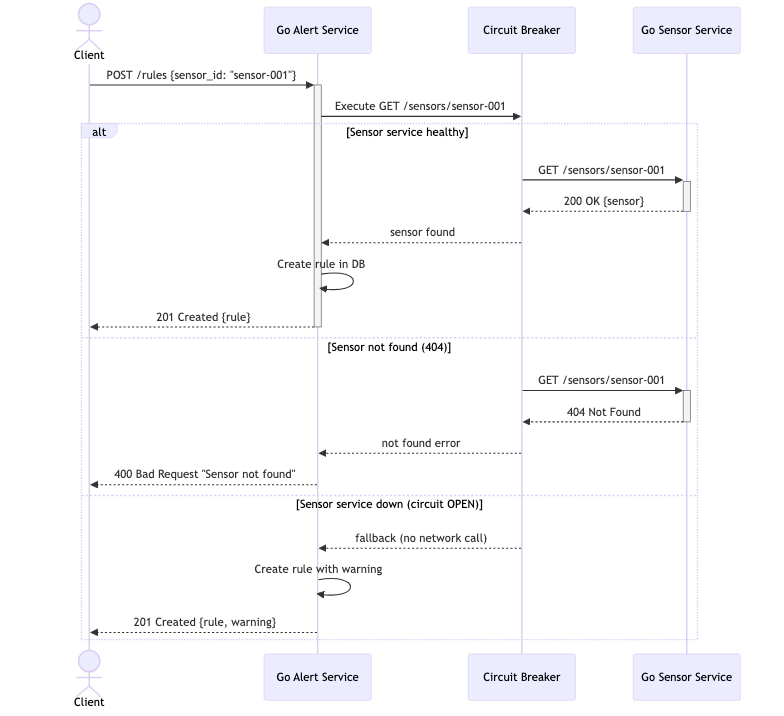
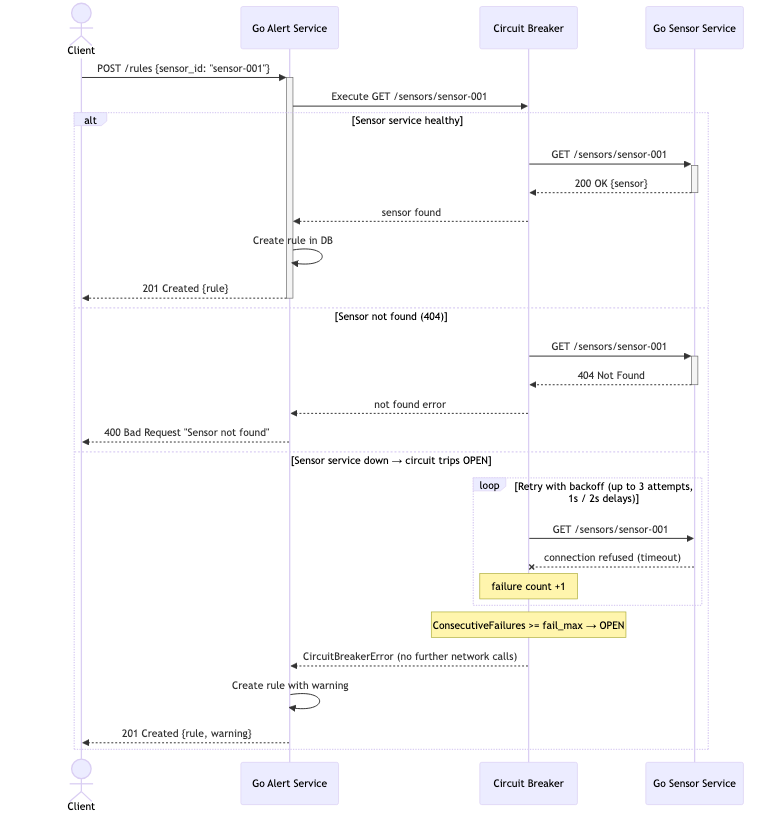
Update circuit breaker diagram to show retry loop before OPEN state

diff --git a/README.md b/README.md
@@ -107,23 +107,29 @@ sequenceDiagram
     participant GoSvc as Go Sensor Service
 
     Client->>+GoAlert: POST /rules {sensor_id: "sensor-001"}
+    GoAlert->>CB: Execute GET /sensors/sensor-001
 
-    GoAlert->>+CB: Execute GET /sensors/sensor-001
     alt Sensor service healthy
         CB->>+GoSvc: GET /sensors/sensor-001
         GoSvc-->>-CB: 200 OK {sensor}
-        CB-->>-GoAlert: sensor found
+        CB-->>GoAlert: sensor found
         GoAlert->>GoAlert: Create rule in DB
-        GoAlert-->>Client: 201 Created {rule}
+        GoAlert-->>-Client: 201 Created {rule}
     else Sensor not found (404)
-        CB->>GoSvc: GET /sensors/sensor-001
-        GoSvc-->>CB: 404 Not Found
+        CB->>+GoSvc: GET /sensors/sensor-001
+        GoSvc-->>-CB: 404 Not Found
         CB-->>GoAlert: not found error
         GoAlert-->>Client: 400 Bad Request "Sensor not found"
-    else Sensor service down (circuit OPEN)
-        CB-->>-GoAlert: fallback (no network call)
+    else Sensor service down → circuit trips OPEN
+        loop Retry with backoff (up to 3 attempts, 1s / 2s delays)
+            CB->>GoSvc: GET /sensors/sensor-001
+            GoSvc--xCB: connection refused (timeout)
+            Note over CB: failure count +1
+        end
+        Note over CB: ConsecutiveFailures >= fail_max → OPEN
+        CB-->>GoAlert: CircuitBreakerError (no further network calls)
         GoAlert->>GoAlert: Create rule with warning
-        GoAlert-->>-Client: 201 Created {rule, warning}
+        GoAlert-->>Client: 201 Created {rule, warning}
     end
 ```
 
